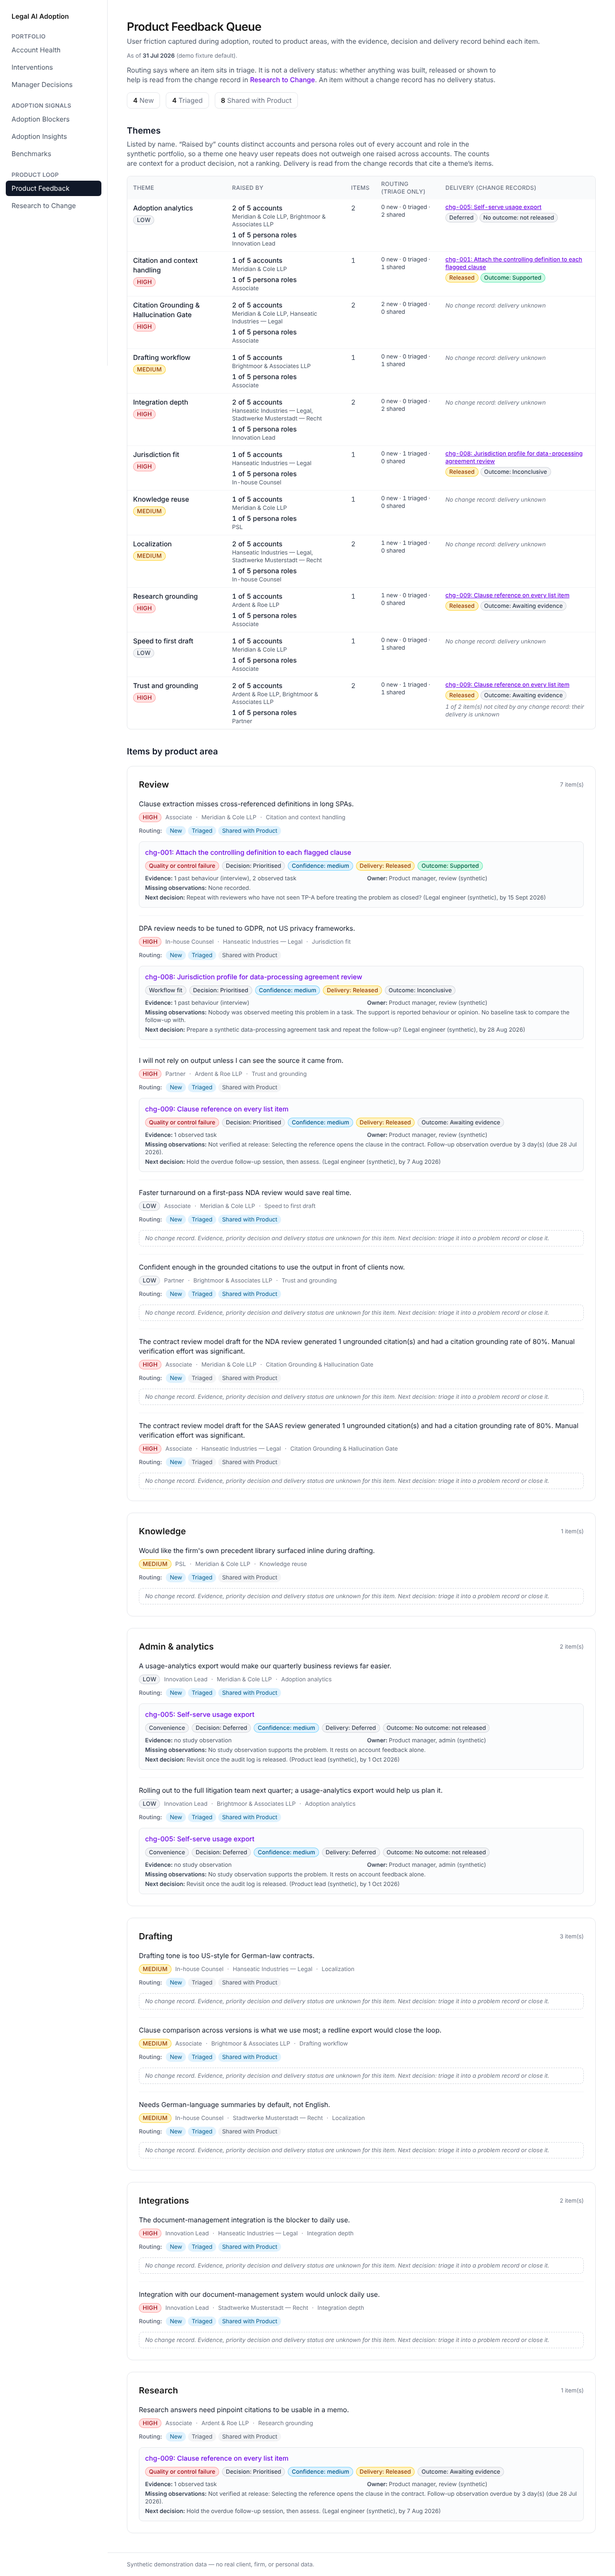
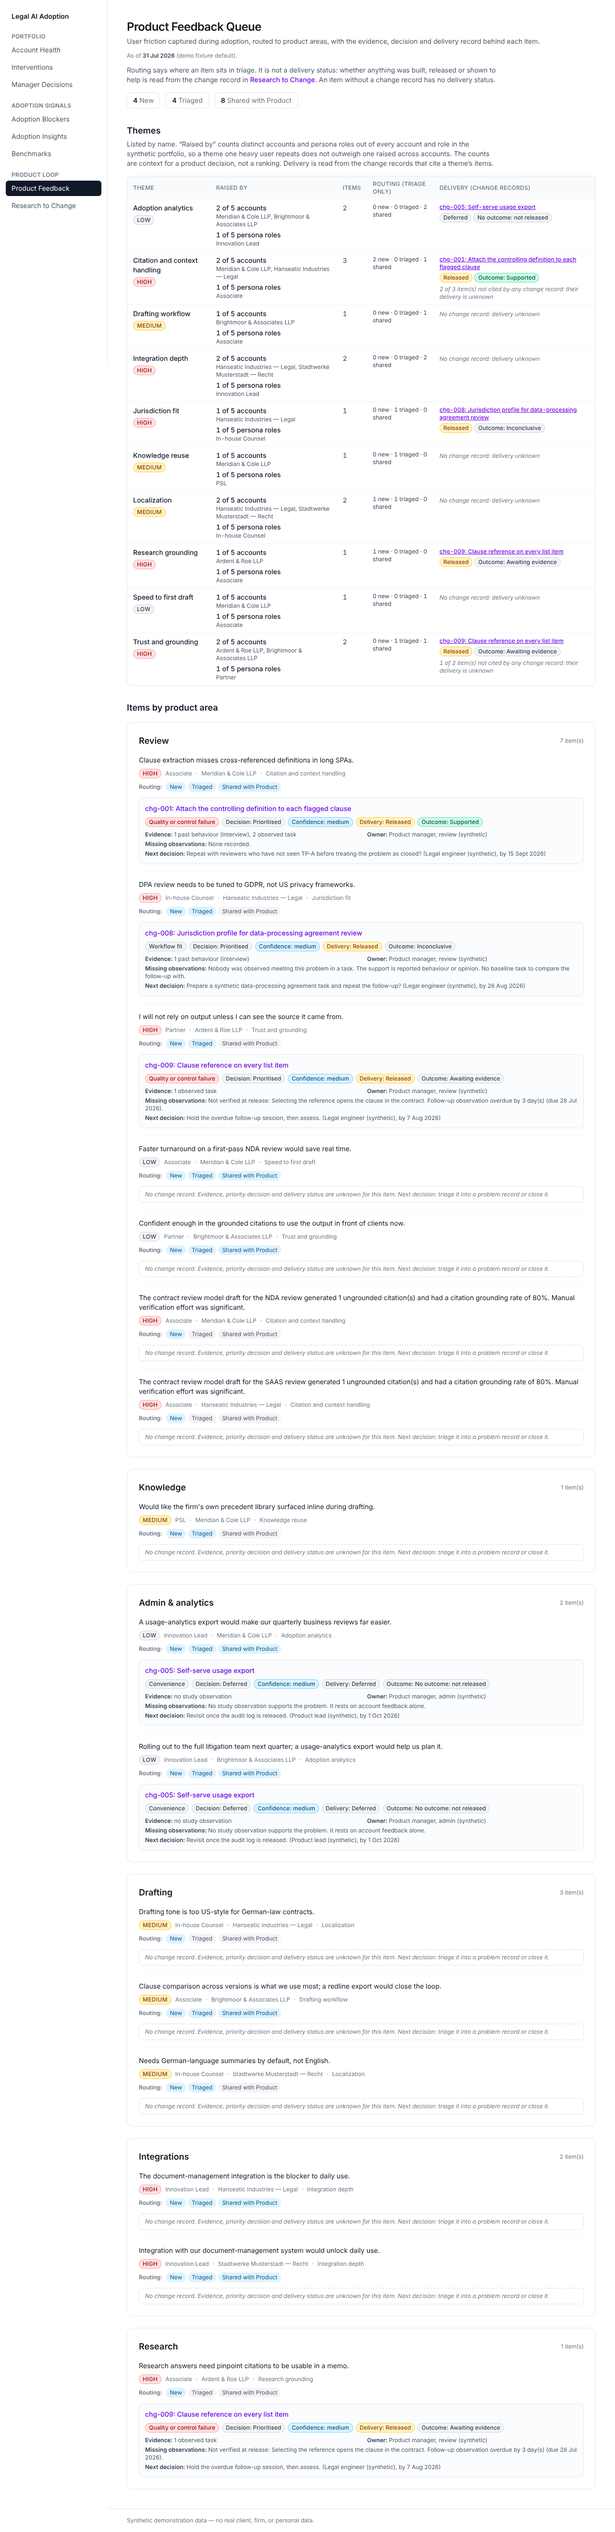
data(feedback): merge the two citation themes into one
At the owner's request, the two generated items whose theme read
"Citation Grounding & Hallucination Gate" now carry the existing
"Citation and context handling", so the Themes table shows one citation
theme raised by 2 of 5 accounts. Their text, severity and routing are
unchanged, and no other record is touched.

chg-001 cites only fb-001, so the folded-in items still show no delivery
status; a test pins that and that no hallucination-named theme remains.
Only the dashboard and the boundary check read data/feedback.json, so no
generated output changes. Plan, test count (280) and screenshot updated.

Claude-Session: https://claude.ai/code/session_01UWrozuzC1TPwPwvaWzHsCQ

diff --git a/lib/feedback-themes.test.ts b/lib/feedback-themes.test.ts
@@ -93,4 +93,14 @@ describe("summarizeThemes", () => {
   it("reports the highest severity raised", () => {
     expect(theme("Trust and grounding").highestSeverity).toBe("high");
   });
+
+  it("folds the generated citation items into one citation theme", () => {
+    const citation = theme("Citation and context handling");
+    expect(citation.itemIds).toEqual(["fb-001", "fb-gen-20260623_003235-1", "fb-gen-20260623_003235-2"]);
+    expect(formatCount(citation.accounts, "accounts")).toBe("2 of 5 accounts");
+    expect(citation.changes.map((c) => c.changeId)).toEqual(["chg-001"]);
+    // chg-001 cites fb-001 only, so the two folded-in items still have no delivery status.
+    expect(citation.itemsWithoutChange).toEqual(["fb-gen-20260623_003235-1", "fb-gen-20260623_003235-2"]);
+    expect(themes.some((t) => /hallucination/i.test(t.theme))).toBe(false);
+  });
 });

diff --git a/docs/research/adaptation-plan.md b/docs/research/adaptation-plan.md
@@ -200,10 +200,12 @@ admin consoles would firm it up.
   against the problems' own `feedbackThemes`, which use a different vocabulary. A theme no
   change record covers reads "No change record: delivery unknown", and partly covered themes
   name how many items are uncited.
-- **Not built.** A triage-only `duplicate` status. It would change `feedbackItemSchema`, and
-  near-duplicate themes in the fixtures ("Citation and context handling" and "Citation
-  Grounding & Hallucination Gate") are a triage call for the owner, not something to merge
-  automatically.
+- **Not built.** A triage-only `duplicate` status; it would change `feedbackItemSchema`.
+- **Owner decision taken (2026-10-30).** The two near-duplicate citation themes in the
+  fixtures were merged in the data: the two generated items that read "Citation Grounding &
+  Hallucination Gate" now carry "Citation and context handling", with their text, severity and
+  routing unchanged. The change record that covers that theme (chg-001) cites only fb-001, so
+  the two folded-in items still show no delivery status.
 
 ### C5. Saved views (not built: budget)
 

diff --git a/CASE_STUDY.md b/CASE_STUDY.md
@@ -108,7 +108,7 @@ weights are rescaled. Expansion readiness is now a separate evidence model.
 
 ## Verification
 
-279 Vitest tests cover denominators, missing evidence, intervention states, health
+280 Vitest tests cover denominators, missing evidence, intervention states, health
 scoring, the value verdict, expansion decisions, manager ordering, the report, the
 charts' Unknown gaps, the health-score explanation, the usage export and the feedback
 themes. A
